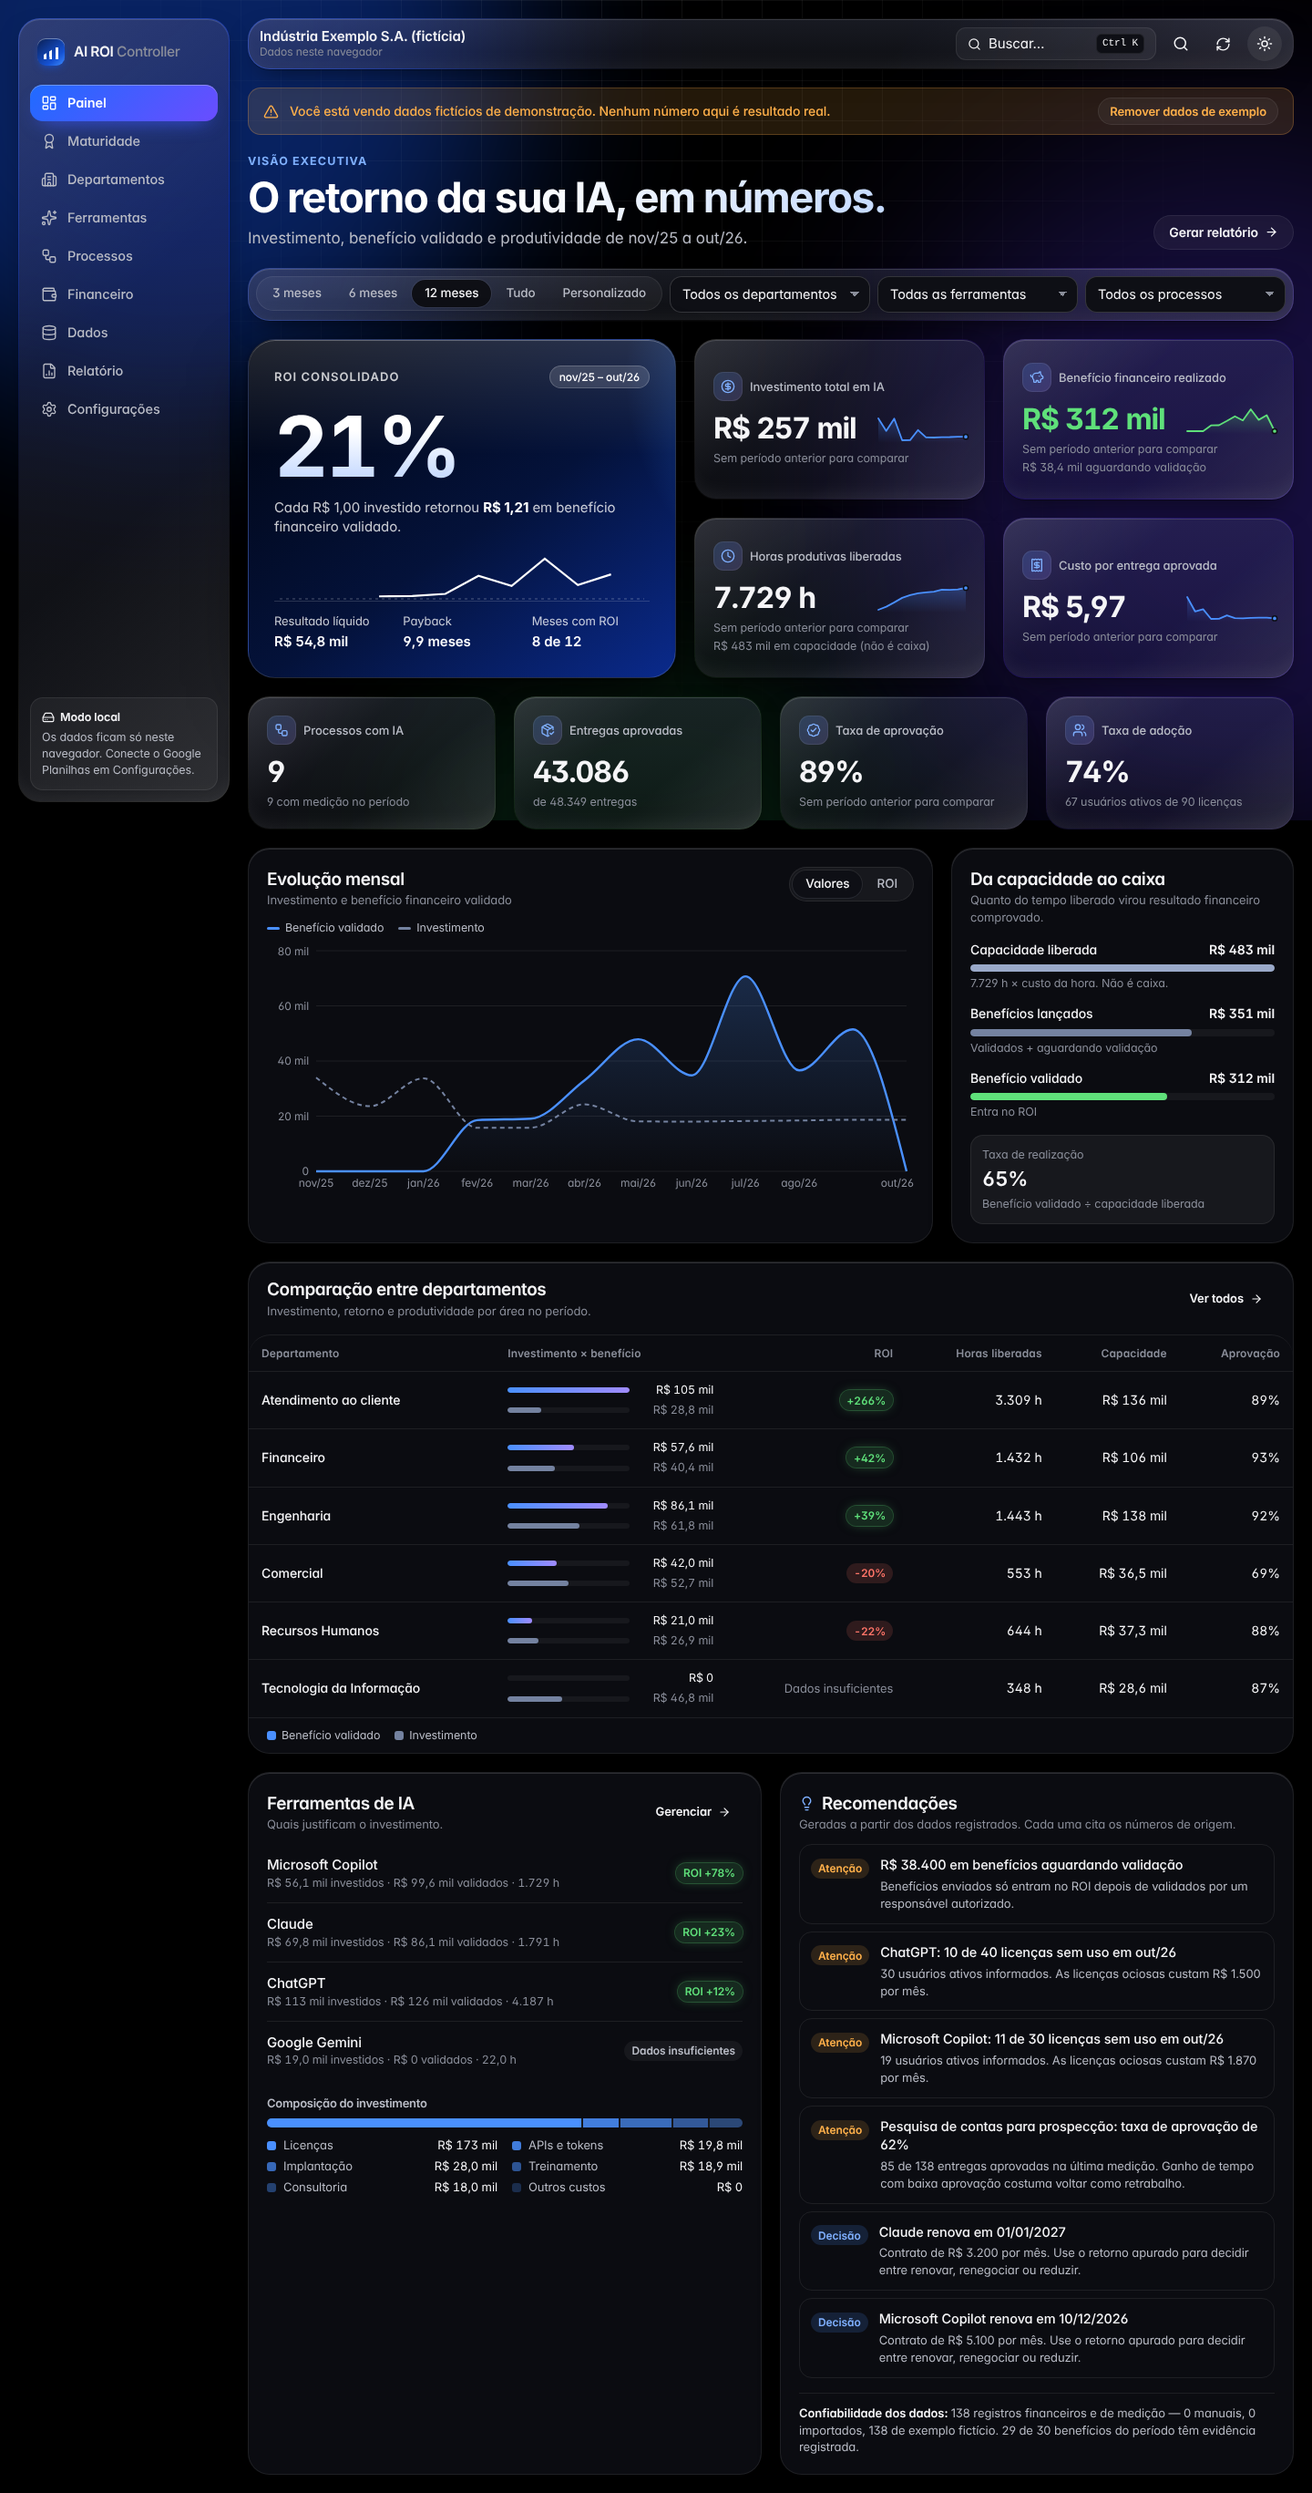
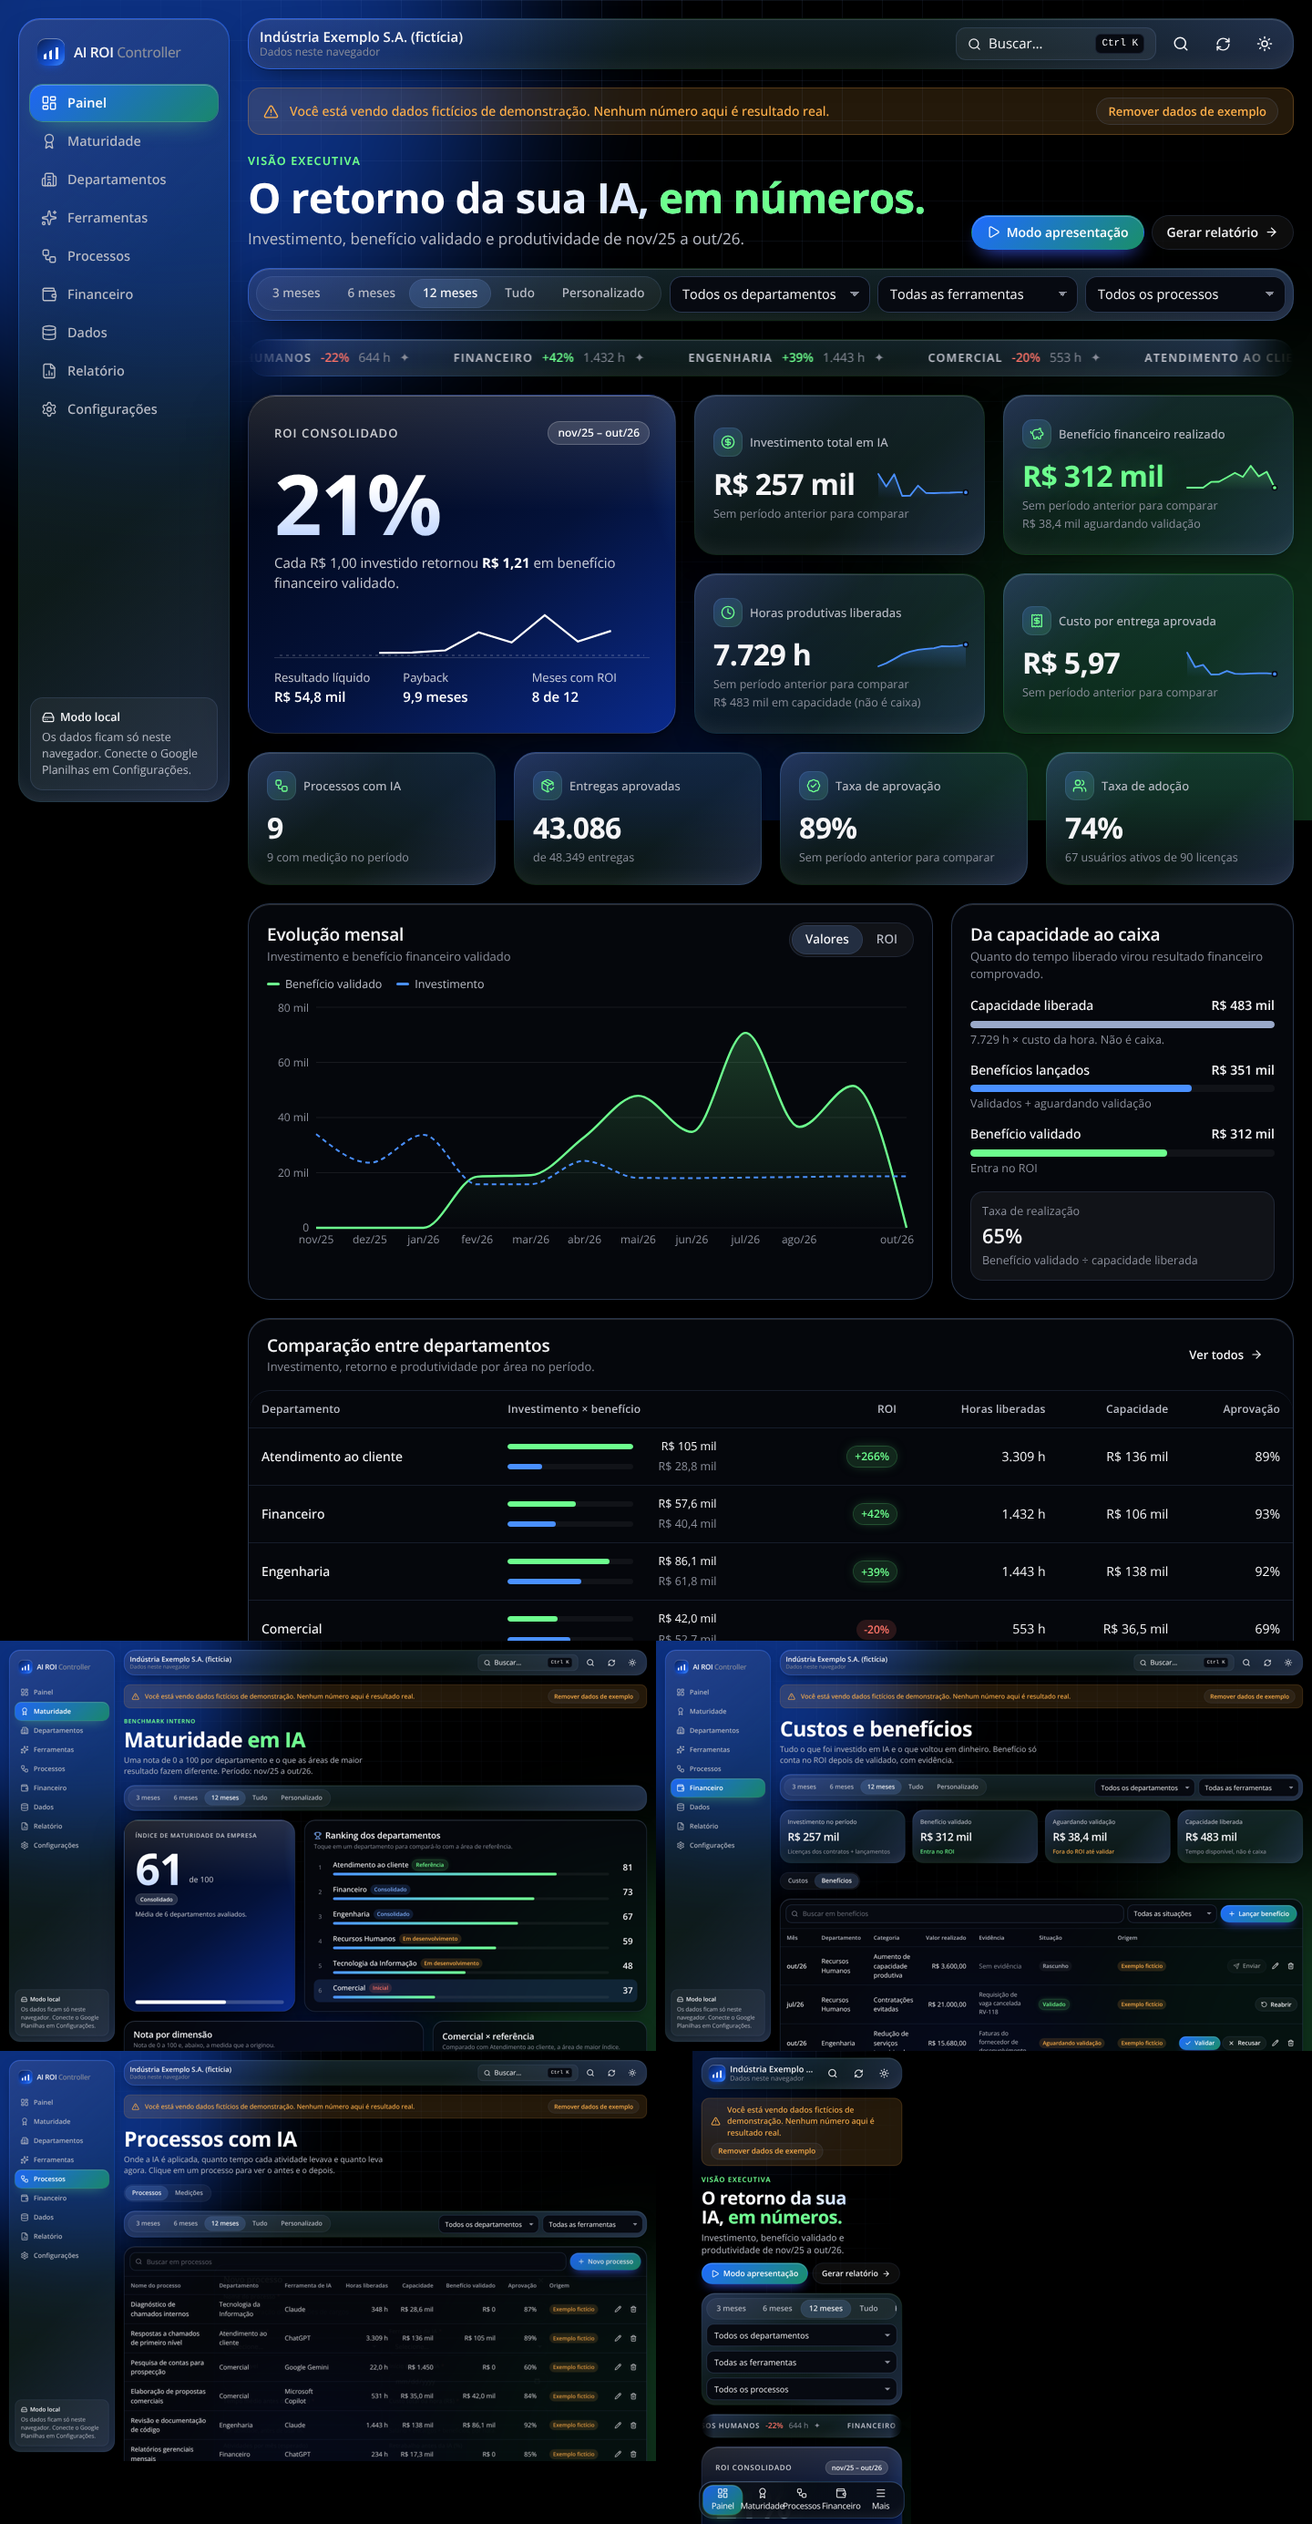
Make the dark blue-and-green look the app default
Carries the presentation's visual language to every screen: black
background with blue and green light, outlined glass cards, green for
gains. Dark is now the default theme; light remains available from the
header toggle.

- Benefit is drawn in green and investment in blue in charts and bars
- Headline accent words in green; active navigation in a blue-green gradient
- Green outline glow on interactive cards

Claude-Session: https://claude.ai/code/session_01NoKGcqvuqHSb1bMKeExHwn

diff --git a/ai-roi-controller/src/app/(app)/page.tsx b/ai-roi-controller/src/app/(app)/page.tsx
@@ -95,7 +95,7 @@ export default function Painel() {
 
   return (
     <>
-      <PageHeader eyebrow="Visão executiva" title="O retorno da sua IA, em números." subtitle={`Investimento, benefício validado e produtividade de ${periodLabel(scope.from)} a ${periodLabel(scope.to)}.`}
+      <PageHeader eyebrow="Visão executiva" title={<>O retorno da sua IA, <span className="accent-word">em números.</span></>} subtitle={`Investimento, benefício validado e produtividade de ${periodLabel(scope.from)} a ${periodLabel(scope.to)}.`}
         actions={hasData ? <>
           <Link href="/apresentacao" className="btn btn-primary"><Play size={15} />Modo apresentação</Link>
           <Link href="/relatorio" className="btn btn-ghost">Gerar relatório<ArrowRight size={15} /></Link>
@@ -176,7 +176,7 @@ export default function Painel() {
                   <p className="text-ink-3 text-[13px]">{chart === "money" ? "Investimento e benefício financeiro validado" : "ROI de cada mês; meses sem dados suficientes ficam em branco"}</p></div>
                 <Segmented label="Tipo de gráfico" value={chart} onChange={setChart} options={[["money", "Valores"], ["roi", "ROI"]]} />
               </div>
-              {chart === "money" ? (<><Legend items={[["Benefício validado", "var(--chart-1)", true], ["Investimento", "var(--chart-2)", true]]} /><div className="mt-2"><MoneyChart data={series} /></div></>) : <RoiChart data={series} />}
+              {chart === "money" ? (<><Legend items={[["Benefício validado", "var(--pos)", true], ["Investimento", "var(--chart-1)", true]]} /><div className="mt-2"><MoneyChart data={series} /></div></>) : <RoiChart data={series} />}
             </section>
 
             <section className="solid p-4 sm:p-5 flex flex-col">
@@ -185,7 +185,7 @@ export default function Painel() {
               <div className="flex flex-col gap-3.5 mt-4">
                 {([
                   ["Capacidade liberada", s.capacityValue, "var(--capacity)", `${fmt.hours(s.hoursSaved)} × custo da hora. Não é caixa.`],
-                  ["Benefícios lançados", s.benefitValidated + s.benefitPending, "var(--chart-2)", "Validados + aguardando validação"],
+                  ["Benefícios lançados", s.benefitValidated + s.benefitPending, "var(--chart-1)", "Validados + aguardando validação"],
                   ["Benefício validado", s.benefitValidated, "var(--pos)", "Entra no ROI"],
                 ] as const).map(([label, v, color, hint]) => (
                   <div key={label}>
@@ -221,8 +221,8 @@ export default function Painel() {
                         <tr key={d.id}>
                           <td className="font-medium">{d.name}</td>
                           <td>
-                            <div className="flex items-center gap-2"><div className="bar flex-1"><i style={{ width: `${(d.summary.benefitValidated / maxDept) * 100}%` }} /></div><span className="num text-[12.5px] w-[84px] text-right">{fmt.moneyShort(d.summary.benefitValidated)}</span></div>
-                            <div className="flex items-center gap-2 mt-1"><div className="bar flex-1"><i style={{ width: `${(d.summary.investment / maxDept) * 100}%`, background: "var(--chart-2)" }} /></div><span className="num text-[12.5px] w-[84px] text-right text-ink-3">{fmt.moneyShort(d.summary.investment)}</span></div>
+                            <div className="flex items-center gap-2"><div className="bar flex-1"><i style={{ width: `${(d.summary.benefitValidated / maxDept) * 100}%`, background: "var(--pos)" }} /></div><span className="num text-[12.5px] w-[84px] text-right">{fmt.moneyShort(d.summary.benefitValidated)}</span></div>
+                            <div className="flex items-center gap-2 mt-1"><div className="bar flex-1"><i style={{ width: `${(d.summary.investment / maxDept) * 100}%`, background: "var(--chart-1)" }} /></div><span className="num text-[12.5px] w-[84px] text-right text-ink-3">{fmt.moneyShort(d.summary.investment)}</span></div>
                           </td>
                           <td className="r">{r !== null ? <Pill tone={r >= 0 ? "pos" : "neg"}>{r >= 0 ? "+" : ""}{fmt.pct(r)}</Pill> : <span className="text-ink-3 text-[13px]" title={indicatorText(d.summary.roi, fmt.pct).hint}>{indicatorText(d.summary.roi, fmt.pct).text}</span>}</td>
                           <td className="r">{fmt.hours(d.summary.hoursSaved)}</td>
@@ -233,7 +233,7 @@ export default function Painel() {
                     })}
                   </tbody>
                 </table>
-                <div className="px-4 sm:px-5 py-2.5 border-t border-line"><Legend items={[["Benefício validado", "var(--chart-1)"], ["Investimento", "var(--chart-2)"]]} /></div>
+                <div className="px-4 sm:px-5 py-2.5 border-t border-line"><Legend items={[["Benefício validado", "var(--pos)"], ["Investimento", "var(--chart-1)"]]} /></div>
               </div>
             ) : <p className="px-5 pb-5 text-ink-3">Nenhum departamento com dados no período.</p>}
           </section>

diff --git a/ai-roi-controller/src/app/globals.css b/ai-roi-controller/src/app/globals.css
@@ -58,24 +58,25 @@
 :root[data-theme="dark"] {
   color-scheme: dark;
   --bg: #000000;
-  --bg-orb-1: rgba(20, 90, 255, 0.38);
-  --bg-orb-2: rgba(90, 60, 255, 0.24);
-  --bg-orb-3: rgba(60, 220, 120, 0.12);
+  --bg-orb-1: rgba(24, 96, 255, 0.5);
+  --bg-orb-2: rgba(70, 235, 130, 0.2);
+  --bg-orb-3: rgba(20, 70, 220, 0.22);
   --ink: #f5f5f7;
   --ink-2: #b9bcc6;
   --ink-3: #8a8e9a;
-  --line: rgba(255, 255, 255, 0.08);
-  --line-strong: rgba(255, 255, 255, 0.16);
-  --glass: rgba(16, 18, 26, 0.5);
-  --glass-top: rgba(38, 42, 58, 0.5);
-  --glass-strong: rgba(12, 13, 19, 0.9);
-  --glass-edge: rgba(255, 255, 255, 0.22);
-  --glass-edge-lo: rgba(255, 255, 255, 0.04);
-  --solid-glass: rgba(14, 15, 21, 0.8);
-  --accent-2: #a08bff;
-  --grad-soft: linear-gradient(135deg, rgba(74, 144, 255, 0.2), rgba(160, 139, 255, 0.2));
+  --line: rgba(140, 180, 255, 0.13);
+  --line-strong: rgba(140, 180, 255, 0.26);
+  --glass: rgba(8, 12, 22, 0.52);
+  --glass-top: rgba(22, 32, 58, 0.5);
+  --glass-strong: rgba(6, 9, 16, 0.92);
+  --glass-edge: rgba(120, 170, 255, 0.42);
+  --glass-edge-lo: rgba(109, 255, 142, 0.14);
+  --solid-glass: rgba(6, 9, 16, 0.78);
+  --accent-2: #6dff8e;
+  --grad: linear-gradient(135deg, #1f6bff 0%, #1a8f6a 100%);
+  --grad-soft: linear-gradient(135deg, rgba(74, 144, 255, 0.22), rgba(109, 255, 142, 0.16));
   --glass-sheen: rgba(255, 255, 255, 0.14);
-  --solid: #0e0f15;
+  --solid: #070a11;
   --sunken: rgba(255, 255, 255, 0.05);
   --hover: rgba(255, 255, 255, 0.07);
   --navy: #0a1f52;
@@ -84,8 +85,8 @@
   --accent-ink: #7fb0ff;
   --accent-soft: rgba(74, 144, 255, 0.16);
   --on-accent: #04122e;
-  --pos: #5fe07a;
-  --pos-soft: rgba(95, 224, 122, 0.14);
+  --pos: #6dff8e;
+  --pos-soft: rgba(109, 255, 142, 0.13);
   --warn: #ffb04a;
   --warn-soft: rgba(255, 176, 74, 0.14);
   --neg: #ff7468;
@@ -381,3 +382,15 @@ textarea.input { min-height: 76px; resize: vertical; }
 .panel { position: relative; overflow: hidden; border: 1px solid var(--frame); border-radius: 40px; padding: clamp(28px, 6vw, 72px); background: radial-gradient(120% 90% at 50% 120%, rgba(109, 255, 142, 0.16), transparent 60%), repeating-radial-gradient(circle at 30% 130%, transparent 0 26px, rgba(255, 255, 255, 0.055) 26px 27px), #05070c; }
 @media (prefers-reduced-motion: reduce) { .intro { display: none; } .frame:hover { transform: none; } }
 @media (max-width: 640px) { .story-line { display: none; } .panel { border-radius: 28px; } }
+
+/* ---------- App inteiro na linguagem da apresentação (tema escuro) ---------- */
+.accent-word { color: var(--pos); -webkit-text-fill-color: var(--pos); }
+:root[data-theme="dark"] .backdrop i:nth-child(2) { right: -14vw; top: auto; bottom: -18vw; }
+:root[data-theme="dark"] .solid { border-color: var(--line-strong); }
+:root[data-theme="dark"] .lift:hover, :root[data-theme="dark"] .lift:focus-visible { box-shadow: 0 0 0 1px var(--pos), 0 24px 60px -24px rgba(109, 255, 142, 0.35), inset 0 1px 0 var(--glass-sheen); }
+:root[data-theme="dark"] .nav-item[aria-current="page"], :root[data-theme="dark"] .tab-active { background: linear-gradient(135deg, rgba(31, 107, 255, 0.9), rgba(26, 143, 106, 0.9)); box-shadow: inset 0 1px 0 rgba(255, 255, 255, 0.25), 0 0 0 1px rgba(109, 255, 142, 0.35), 0 12px 26px -14px rgba(109, 255, 142, 0.6); }
+:root[data-theme="dark"] .eyebrow { color: var(--pos); }
+:root[data-theme="dark"] .kpi-ico { color: var(--pos); }
+:root[data-theme="dark"] .text-pos { text-shadow: 0 0 28px rgba(109, 255, 142, 0.28); }
+:root[data-theme="dark"] .table th { color: var(--ink-2); }
+:root[data-theme="dark"] .seg button[aria-selected="true"], :root[data-theme="dark"] .seg button[aria-pressed="true"] { background: rgba(120, 170, 255, 0.18); box-shadow: 0 0 0 1px var(--line-strong); }

diff --git a/ai-roi-controller/src/components/charts.tsx b/ai-roi-controller/src/components/charts.tsx
@@ -44,18 +44,18 @@ export function MoneyChart({ data, height = 280 }: { data: Point[]; height?: num
       <ResponsiveContainer width="100%" height="100%">
         <ComposedChart data={rows} margin={{ top: 8, right: 8, bottom: 0, left: 0 }}>
           <defs>
-            <linearGradient id="fill-ben" x1="0" y1="0" x2="0" y2="1"><stop offset="0" stopColor="var(--chart-1)" stopOpacity="0.38" /><stop offset="1" stopColor="var(--chart-1)" stopOpacity="0" /></linearGradient>
+            <linearGradient id="fill-ben" x1="0" y1="0" x2="0" y2="1"><stop offset="0" stopColor="var(--pos)" stopOpacity="0.34" /><stop offset="1" stopColor="var(--pos)" stopOpacity="0" /></linearGradient>
           </defs>
           <CartesianGrid vertical={false} stroke="var(--chart-grid)" />
           <XAxis dataKey="label" tick={axis} tickLine={false} axisLine={false} interval="preserveStartEnd" minTickGap={18} />
           <YAxis tick={axis} tickLine={false} axisLine={false} width={54} tickFormatter={short} />
           <Tooltip cursor={{ stroke: "var(--line-strong)" }} content={<Tip rows={(s) => [
-            ["Benefício validado", fmt.money(s.benefitValidated), "var(--chart-1)"],
-            ["Investimento", fmt.money(s.investment), "var(--chart-2)"],
+            ["Benefício validado", fmt.money(s.benefitValidated), "var(--pos)"],
+            ["Investimento", fmt.money(s.investment), "var(--chart-1)"],
             ["ROI do mês", indicatorText(s.roi, fmt.pct).text],
           ]} />} />
-          <Area dataKey="ben" type="monotone" stroke="var(--chart-1)" strokeWidth={2.4} fill="url(#fill-ben)" dot={false} activeDot={{ r: 5, strokeWidth: 2, stroke: "var(--solid)" }} isAnimationActive={false} />
-          <Line dataKey="inv" type="monotone" stroke="var(--chart-2)" strokeWidth={2} strokeDasharray="5 4" dot={false} activeDot={{ r: 4, strokeWidth: 2, stroke: "var(--solid)" }} isAnimationActive={false} />
+          <Area dataKey="ben" type="monotone" stroke="var(--pos)" strokeWidth={2.4} fill="url(#fill-ben)" dot={false} activeDot={{ r: 5, strokeWidth: 2, stroke: "var(--solid)" }} isAnimationActive={false} />
+          <Line dataKey="inv" type="monotone" stroke="var(--chart-1)" strokeWidth={2} strokeDasharray="5 4" dot={false} activeDot={{ r: 4, strokeWidth: 2, stroke: "var(--solid)" }} isAnimationActive={false} />
         </ComposedChart>
       </ResponsiveContainer>
     </div>

diff --git a/ai-roi-controller/src/app/(app)/maturidade/page.tsx b/ai-roi-controller/src/app/(app)/maturidade/page.tsx
@@ -49,7 +49,7 @@ export default function Maturidade() {
   }
   return (
     <>
-      <PageHeader eyebrow="Benchmark interno" title="Maturidade em IA" subtitle={`Uma nota de 0 a 100 por departamento e o que as áreas de maior resultado fazem diferente. Período: ${periodLabel(scope.from)} a ${periodLabel(scope.to)}.`} />
+      <PageHeader eyebrow="Benchmark interno" title={<>Maturidade <span className="accent-word">em IA</span></>} subtitle={`Uma nota de 0 a 100 por departamento e o que as áreas de maior resultado fazem diferente. Período: ${periodLabel(scope.from)} a ${periodLabel(scope.to)}.`} />
       <FilterBar dimensions={false} />
 
       <div className="enter grid gap-4 lg:gap-5 xl:grid-cols-[minmax(0,4fr)_minmax(0,8fr)]">

diff --git a/ai-roi-controller/src/components/ui.tsx b/ai-roi-controller/src/components/ui.tsx
@@ -176,7 +176,7 @@ export function ToastProvider({ children }: { children: ReactNode }) {
 }
 
 /* ---------- Cabeçalho de página ---------- */
-export function PageHeader({ title, subtitle, actions, eyebrow }: { title: string; subtitle?: ReactNode; actions?: ReactNode; eyebrow?: string }) {
+export function PageHeader({ title, subtitle, actions, eyebrow }: { title: ReactNode; subtitle?: ReactNode; actions?: ReactNode; eyebrow?: string }) {
   return (
     <div className="flex flex-wrap items-end gap-x-4 gap-y-3">
       <div className="min-w-0 flex-1 basis-64">

diff --git a/ai-roi-controller/src/app/layout.tsx b/ai-roi-controller/src/app/layout.tsx
@@ -11,7 +11,7 @@ export const viewport: Viewport = {
 };
 
 // Aplica o tema antes da primeira pintura, sem flash.
-const themeScript = `try{var t=localStorage.getItem("roi-theme");if(t!=="light"&&t!=="dark")t=matchMedia("(prefers-color-scheme: dark)").matches?"dark":"light";document.documentElement.dataset.theme=t}catch(e){}`;
+const themeScript = `try{var t=localStorage.getItem("roi-theme");if(t!=="light"&&t!=="dark")t="dark";document.documentElement.dataset.theme=t}catch(e){}`;
 
 export default function RootLayout({ children }: LayoutProps<"/">) {
   return (

diff --git a/ai-roi-controller/src/app/(app)/relatorio/page.tsx b/ai-roi-controller/src/app/(app)/relatorio/page.tsx
@@ -151,7 +151,7 @@ export default function Relatorio() {
 
           <section>
             <h2 className="text-[16px] font-semibold mb-2">Evolução mensal</h2>
-            <Legend items={[["Benefício validado", "var(--chart-1)", true], ["Investimento", "var(--chart-2)", true]]} />
+            <Legend items={[["Benefício validado", "var(--pos)", true], ["Investimento", "var(--chart-1)", true]]} />
             <MoneyChart data={series} height={240} />
           </section>
 
